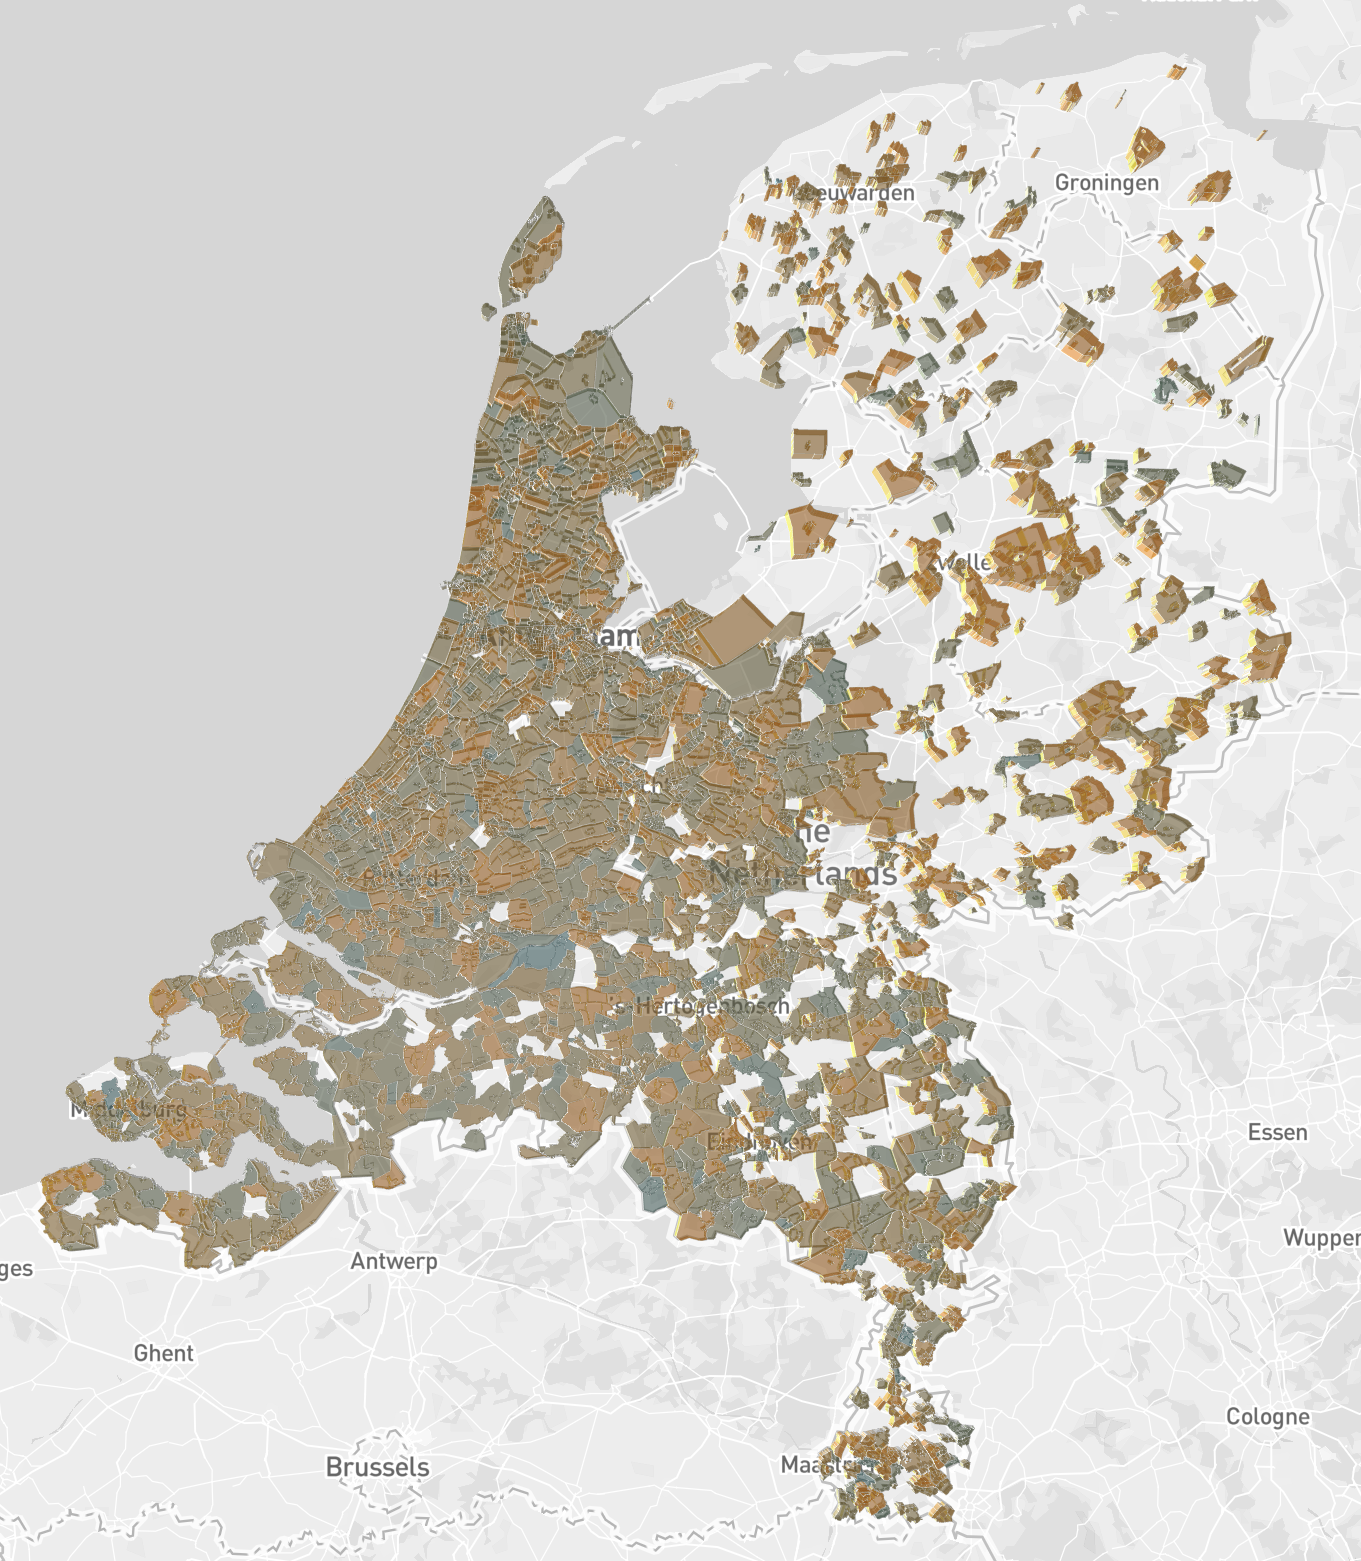
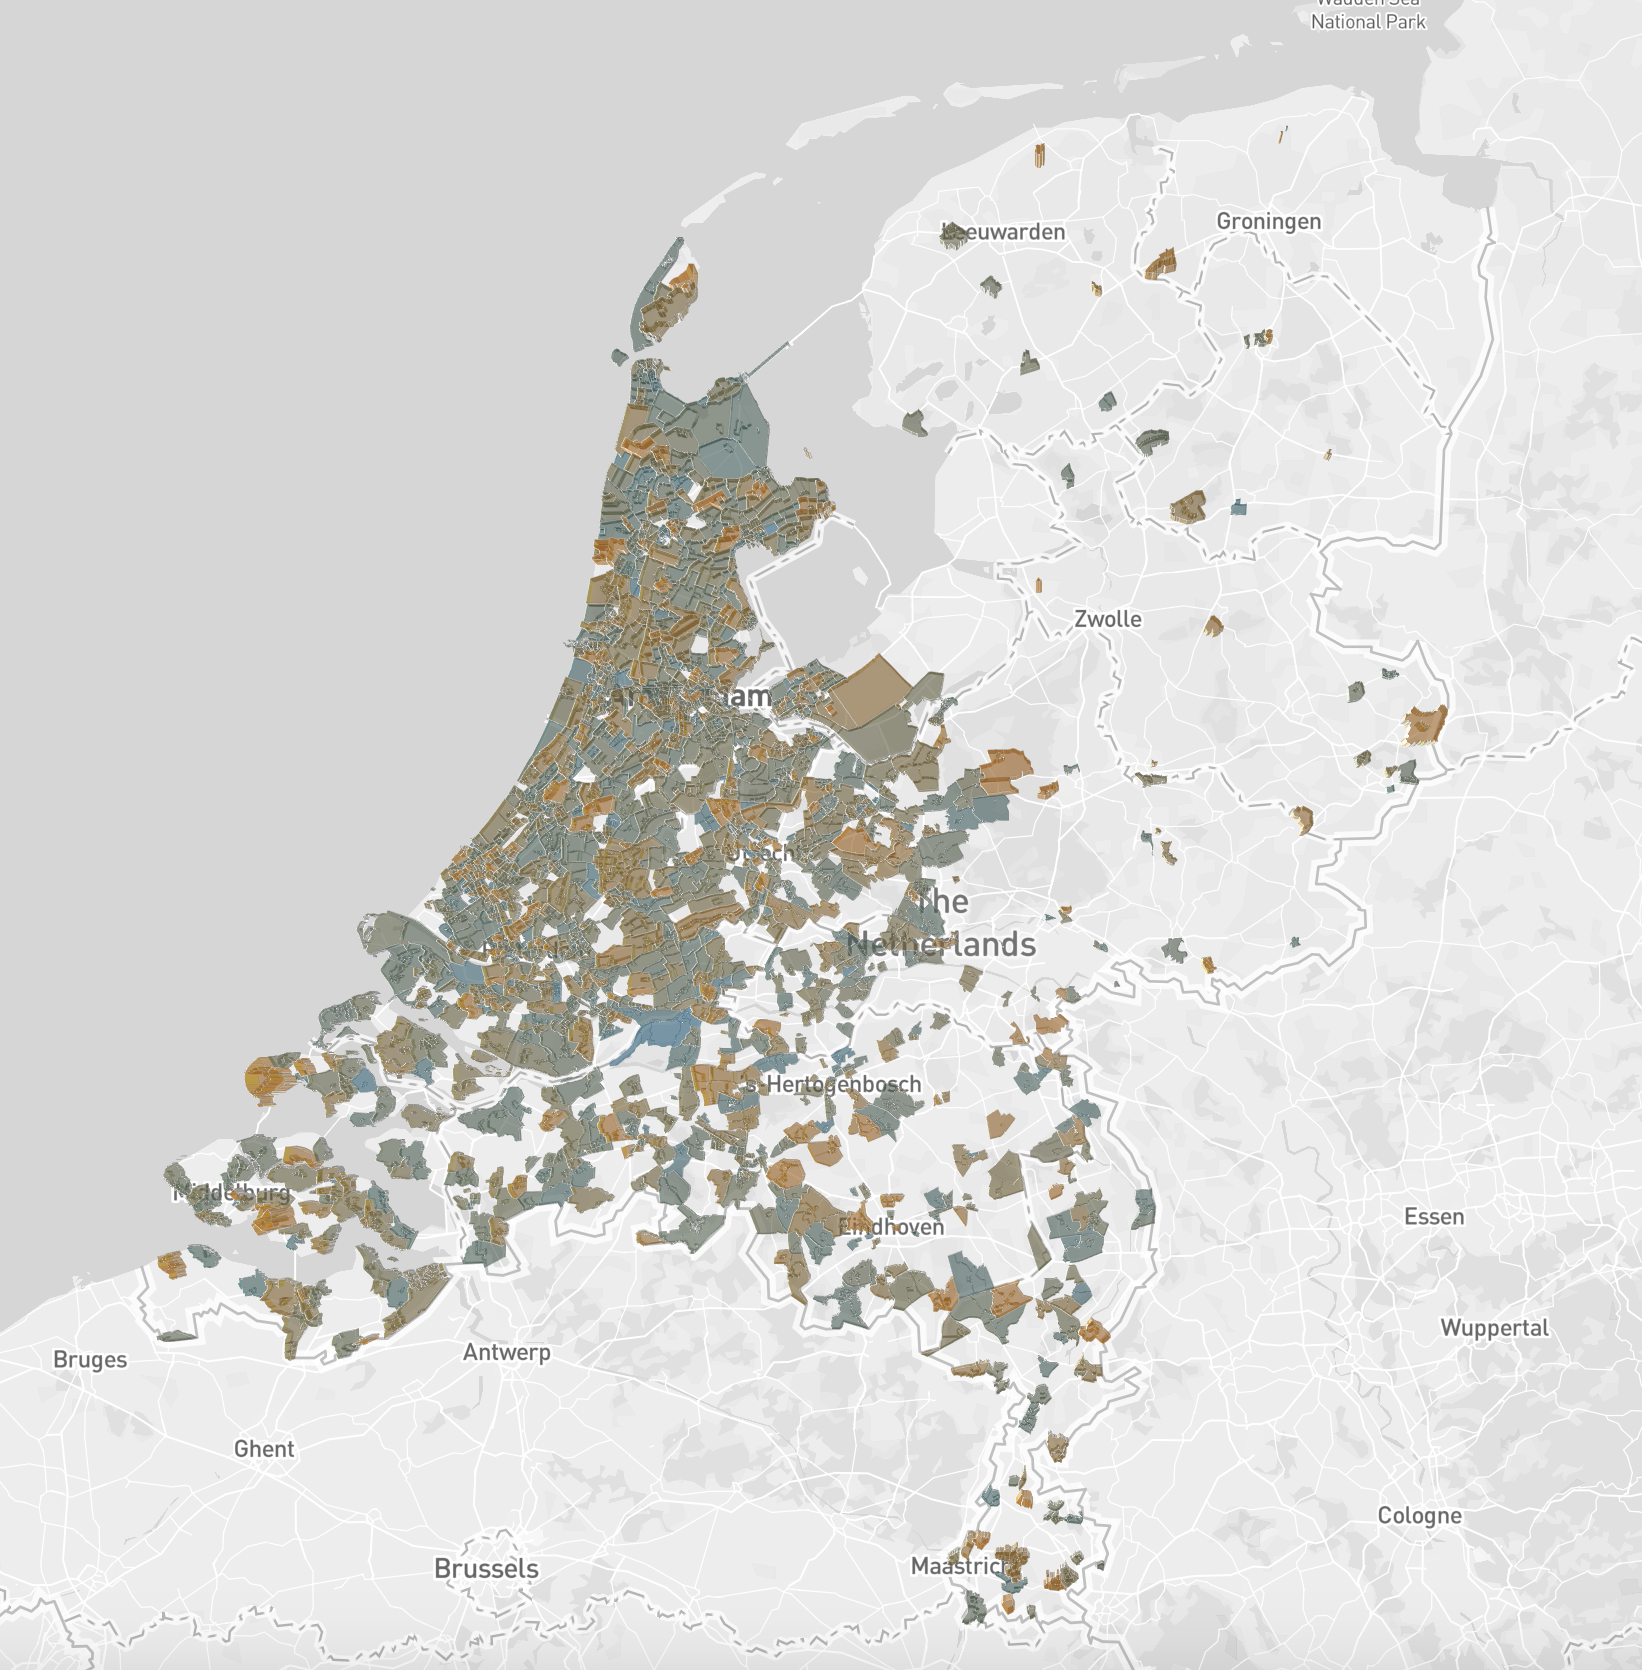
+ generate smaller file

diff --git a/docs/index.html b/docs/index.html
@@ -1,1 +1,1 @@
-<!doctype html><html lang="en"><head><meta charset="utf-8"><meta name="viewport" content="width=device-width,initial-scale=1,shrink-to-fit=no"><link rel="stylesheet" href="style.css"><title>Funda price map</title><link href="/funda-pricemap/static/css/1.f543ea28.chunk.css" rel="stylesheet"></head><body><noscript>You need to enable JavaScript to run this app.</noscript><div id="root"></div><script>!function(l){function e(e){for(var r,n,t=e[0],o=e[1],u=e[2],f=0,i=[];f<t.length;f++)n=t[f],p[n]&&i.push(p[n][0]),p[n]=0;for(r in o)Object.prototype.hasOwnProperty.call(o,r)&&(l[r]=o[r]);for(s&&s(e);i.length;)i.shift()();return c.push.apply(c,u||[]),a()}function a(){for(var e,r=0;r<c.length;r++){for(var n=c[r],t=!0,o=1;o<n.length;o++){var u=n[o];0!==p[u]&&(t=!1)}t&&(c.splice(r--,1),e=f(f.s=n[0]))}return e}var n={},p={2:0},c=[];function f(e){if(n[e])return n[e].exports;var r=n[e]={i:e,l:!1,exports:{}};return l[e].call(r.exports,r,r.exports,f),r.l=!0,r.exports}f.m=l,f.c=n,f.d=function(e,r,n){f.o(e,r)||Object.defineProperty(e,r,{enumerable:!0,get:n})},f.r=function(e){"undefined"!=typeof Symbol&&Symbol.toStringTag&&Object.defineProperty(e,Symbol.toStringTag,{value:"Module"}),Object.defineProperty(e,"__esModule",{value:!0})},f.t=function(r,e){if(1&e&&(r=f(r)),8&e)return r;if(4&e&&"object"==typeof r&&r&&r.__esModule)return r;var n=Object.create(null);if(f.r(n),Object.defineProperty(n,"default",{enumerable:!0,value:r}),2&e&&"string"!=typeof r)for(var t in r)f.d(n,t,function(e){return r[e]}.bind(null,t));return n},f.n=function(e){var r=e&&e.__esModule?function(){return e.default}:function(){return e};return f.d(r,"a",r),r},f.o=function(e,r){return Object.prototype.hasOwnProperty.call(e,r)},f.p="/funda-pricemap/";var r=window.webpackJsonp=window.webpackJsonp||[],t=r.push.bind(r);r.push=e,r=r.slice();for(var o=0;o<r.length;o++)e(r[o]);var s=t;a()}([])</script><script src="/funda-pricemap/static/js/1.a6a2adaa.chunk.js"></script><script src="/funda-pricemap/static/js/main.fd495fdc.chunk.js"></script></body></html>
+<!doctype html><html lang="en"><head><meta charset="utf-8"><meta name="viewport" content="width=device-width,initial-scale=1,shrink-to-fit=no"><link rel="stylesheet" href="style.css"><title>Funda price map</title><link href="/funda-pricemap/static/css/1.f543ea28.chunk.css" rel="stylesheet"></head><body><noscript>You need to enable JavaScript to run this app.</noscript><div id="root"></div><script>!function(l){function e(e){for(var r,n,t=e[0],o=e[1],u=e[2],f=0,i=[];f<t.length;f++)n=t[f],p[n]&&i.push(p[n][0]),p[n]=0;for(r in o)Object.prototype.hasOwnProperty.call(o,r)&&(l[r]=o[r]);for(s&&s(e);i.length;)i.shift()();return c.push.apply(c,u||[]),a()}function a(){for(var e,r=0;r<c.length;r++){for(var n=c[r],t=!0,o=1;o<n.length;o++){var u=n[o];0!==p[u]&&(t=!1)}t&&(c.splice(r--,1),e=f(f.s=n[0]))}return e}var n={},p={2:0},c=[];function f(e){if(n[e])return n[e].exports;var r=n[e]={i:e,l:!1,exports:{}};return l[e].call(r.exports,r,r.exports,f),r.l=!0,r.exports}f.m=l,f.c=n,f.d=function(e,r,n){f.o(e,r)||Object.defineProperty(e,r,{enumerable:!0,get:n})},f.r=function(e){"undefined"!=typeof Symbol&&Symbol.toStringTag&&Object.defineProperty(e,Symbol.toStringTag,{value:"Module"}),Object.defineProperty(e,"__esModule",{value:!0})},f.t=function(r,e){if(1&e&&(r=f(r)),8&e)return r;if(4&e&&"object"==typeof r&&r&&r.__esModule)return r;var n=Object.create(null);if(f.r(n),Object.defineProperty(n,"default",{enumerable:!0,value:r}),2&e&&"string"!=typeof r)for(var t in r)f.d(n,t,function(e){return r[e]}.bind(null,t));return n},f.n=function(e){var r=e&&e.__esModule?function(){return e.default}:function(){return e};return f.d(r,"a",r),r},f.o=function(e,r){return Object.prototype.hasOwnProperty.call(e,r)},f.p="/funda-pricemap/";var r=window.webpackJsonp=window.webpackJsonp||[],t=r.push.bind(r);r.push=e,r=r.slice();for(var o=0;o<r.length;o++)e(r[o]);var s=t;a()}([])</script><script src="/funda-pricemap/static/js/1.a6a2adaa.chunk.js"></script><script src="/funda-pricemap/static/js/main.c33a8195.chunk.js"></script></body></html>

diff --git a/docs/static/js/main.c33a8195.chunk.js b/docs/static/js/main.c33a8195.chunk.js
@@ -1,0 +1,2 @@
+(window.webpackJsonp=window.webpackJsonp||[]).push([[0],{119:function(t,e,n){t.exports=n(186)},156:function(t,e){},157:function(t,e){},158:function(t,e){},186:function(t,e,n){"use strict";n.r(e);var i=n(68),o=n(1),a=n(3),r=n(8),s=n(7),c=n(9),u=n(14),p=n.n(u),l=n(84),d=n(153),h=n(135),f={lightsPosition:[-125,50.5,5e3,-122.8,48.5,8e3],ambientRatio:.2,diffuseRatio:.5,specularRatio:.3,lightsStrength:[1,0,2,0],numberOfLights:2},w=function(t){function e(){return Object(o.a)(this,e),Object(r.a)(this,Object(s.a)(e).apply(this,arguments))}return Object(c.a)(e,t),Object(a.a)(e,[{key:"render",value:function(){var t=this.props,e=t.viewport,n=t.postmap,o=t.statistics;if(!n)return null;var a=Object(i.a)({},n,{features:n.features.filter(function(t){return t.properties.POSTCODE in o.postcodes})}),r=function(t,e,n){var i=t.properties.POSTCODE;return i in o.postcodes?(o.postcodes[i].r-o.minprice)/(3750-o.minprice)*n:e},s=new h.a({id:"geojson",data:a,opacity:.3,stroked:!1,filled:!0,extruded:!0,wireframe:!0,fp64:!0,getElevation:function(t){return r(t,0,5e3)},getFillColor:function(t){return[255*(e=r(t,0,1)),140,200*(1-e)];var e},getLineColor:function(t){return[255,255,255]},lightSettings:f,pickable:Boolean(this.props.onHover),onHover:this.props.onHover});return p.a.createElement(h.b,Object.assign({},e,{layers:[s],initWebGLParameters:!0}))}}],[{key:"defaultViewport",get:function(){return{latitude:52.2125708,longitude:4.9636486,zoom:7,maxZoom:16,pitch:5,bearing:0}}}]),e}(u.Component),m=n(134),b=(n(182),n(184),"map/postcodemap.wsg.json"),g=function(t){function e(t){var n;return Object(o.a)(this,e),(n=Object(r.a)(this,Object(s.a)(e).call(this,t))).state={viewport:Object(i.a)({},w.defaultViewport,{width:500,height:500}),data:null,statistics:null},Promise.all([fetch(b),fetch("generated/2018-10-24.json")]).then(function(t){return Promise.all(t.map(function(t){return t.json()}))}).then(function(t){n.setState({data:t[0],statistics:t[1]})}).catch(function(t){console.warn(t),m.toast.error("Could not load the map data")}),n}return Object(c.a)(e,t),Object(a.a)(e,[{key:"componentDidMount",value:function(){window.addEventListener("resize",this._resize.bind(this)),this._resize()}},{key:"_resize",value:function(){this._onViewportChange({width:window.innerWidth,height:window.innerHeight})}},{key:"_onViewportChange",value:function(t){this.setState({viewport:Object(i.a)({},this.state.viewport,t)})}},{key:"render",value:function(){var t=this.state,e=t.viewport,n=t.data,i=t.statistics;return p.a.createElement("div",null,p.a.createElement(m.ToastContainer,null),p.a.createElement(d.a,Object.assign({},e,{onViewportChange:this._onViewportChange.bind(this),mapboxApiAccessToken:"pk.eyJ1IjoiY29lbnM5NyIsImEiOiJjam5objg4YWQwNWVlM3B0ZHd0NGV2aDdpIn0.0Jg6jNjAROAafiP9QB_i6w"}),p.a.createElement(w,{viewport:e,postmap:n,statistics:i})))}}]),e}(u.Component);Object(l.render)(p.a.createElement(g,null),document.getElementById("root"))}},[[119,2,1]]]);
+//# sourceMappingURL=main.c33a8195.chunk.js.map

diff --git a/map3d/src/deckgl-overlay.js b/map3d/src/deckgl-overlay.js
@@ -34,25 +34,16 @@ export default class DeckGLOverlay extends Component {
       ...postmap,
       features: postmap.features.filter(f => {
         const postcode = f.properties.POSTCODE;
-        if (postcode in statistics.postcodes) {
-          const data = statistics.postcodes[postcode];
-          return data.c >= 3;
-        }
-        return false;
+        return postcode in statistics.postcodes
       })
     }
 
     const calcDepth = (f, defaultValue, scale) => {
-      const priceMax = 3500;
+      const priceMax = 3750;
       const postcode = f.properties.POSTCODE;
       if (postcode in statistics.postcodes) {
         const data = statistics.postcodes[postcode];
-        if (data.r > priceMax) {
-          return scale;
-        }
-        if (data.c < 3) {
-          return defaultValue;
-        }
+
         return ((data.r - statistics.minprice) / (priceMax - statistics.minprice)) * scale;
       }
       else {

diff --git a/docs/precache-manifest.4d69d9262ad377662ffcd09dad71998f.js b/docs/precache-manifest.4d69d9262ad377662ffcd09dad71998f.js
@@ -4,8 +4,8 @@ self.__precacheManifest = [
     "url": "/funda-pricemap/static/js/runtime~main.68b00ddc.js"
   },
   {
-    "revision": "fd495fdc6e81270d9524",
-    "url": "/funda-pricemap/static/js/main.fd495fdc.chunk.js"
+    "revision": "c33a8195d963ebe52e0f",
+    "url": "/funda-pricemap/static/js/main.c33a8195.chunk.js"
   },
   {
     "revision": "a6a2adaae1359bfb579f",
@@ -16,7 +16,7 @@ self.__precacheManifest = [
     "url": "/funda-pricemap/static/css/1.f543ea28.chunk.css"
   },
   {
-    "revision": "3fee3ab30ae38e44773dd907718f2c4f",
+    "revision": "8248d7b9629bf3b64a73f43ab1b0230c",
     "url": "/funda-pricemap/index.html"
   }
 ];

diff --git a/map3d/src/index.js b/map3d/src/index.js
@@ -27,7 +27,7 @@ class Root extends Component {
       statistics: null
     };
 
-    Promise.all([fetch(DATA_URL), fetch('generated/2018-10-22.json')])
+    Promise.all([fetch(DATA_URL), fetch('generated/2018-10-24.json')])
       .then(response =>
         Promise.all(response.map(x => x.json()))
       )

diff --git a/docs/service-worker.js b/docs/service-worker.js
@@ -14,7 +14,7 @@
 importScripts("https://storage.googleapis.com/workbox-cdn/releases/3.6.2/workbox-sw.js");
 
 importScripts(
-  "/funda-pricemap/precache-manifest.61c196039d05f2c1c017e4404cb154fb.js"
+  "/funda-pricemap/precache-manifest.4d69d9262ad377662ffcd09dad71998f.js"
 );
 
 workbox.clientsClaim();
